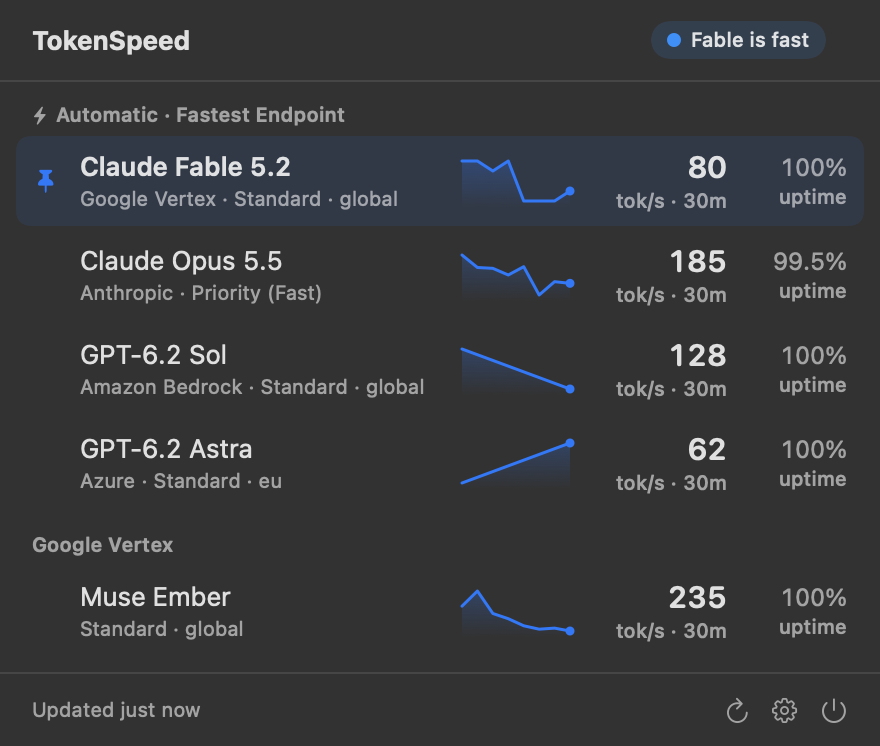
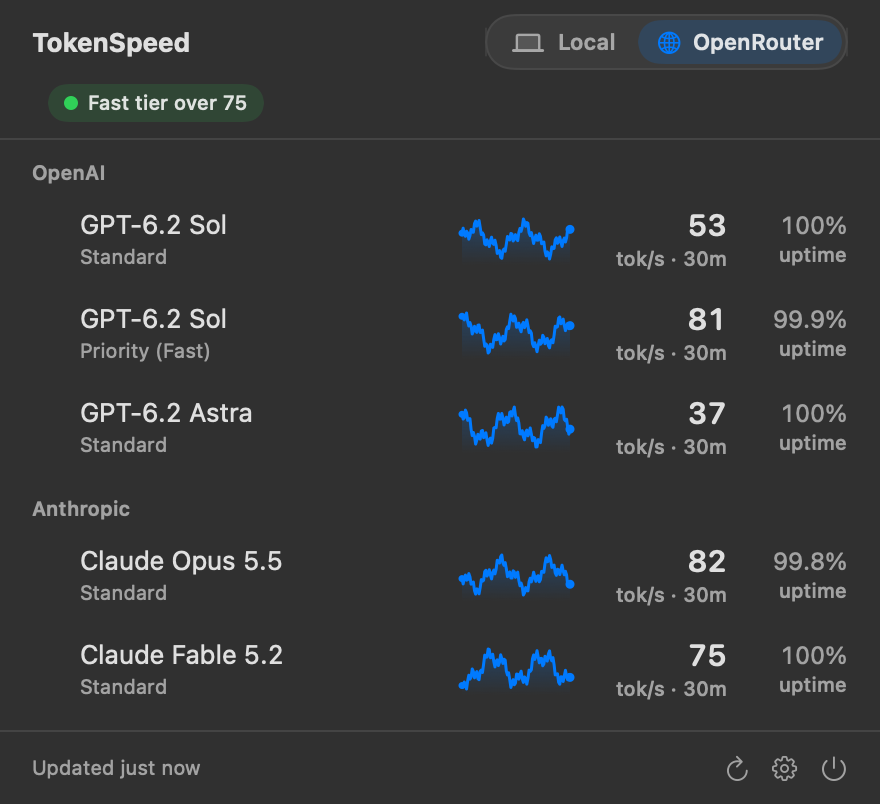
Show both TokenSpeed tabs in the README

diff --git a/README.md b/README.md
@@ -2,7 +2,10 @@
 
 A tiny macOS menu bar app that tracks output tokens per second for [OpenRouter](https://openrouter.ai), Codex, and Claude Code.
 
-<img src="docs/popover.png" alt="TokenSpeed’s OpenRouter watchlist with TPS, uptime, and 24-hour sparklines" width="440">
+<img src="docs/popover-local.png" alt="Local tab showing Codex and Claude Code throughput by model and speed tier, with one-hour sparklines and sample counts" width="420">
+<img src="docs/popover.png" alt="OpenRouter tab showing a watchlist grouped by provider, with throughput, uptime, and sparklines" width="420">
+
+*Example data shown in both screenshots.*
 
 - **Local sessions.** See the last hour of Codex and Claude Code request TPS, grouped by model and speed tier, with sparklines and sample counts.
 - **OpenRouter watchlist.** Track median TPS and uptime for a specific provider, tier, or region, or let **Automatic** follow the fastest endpoint.
